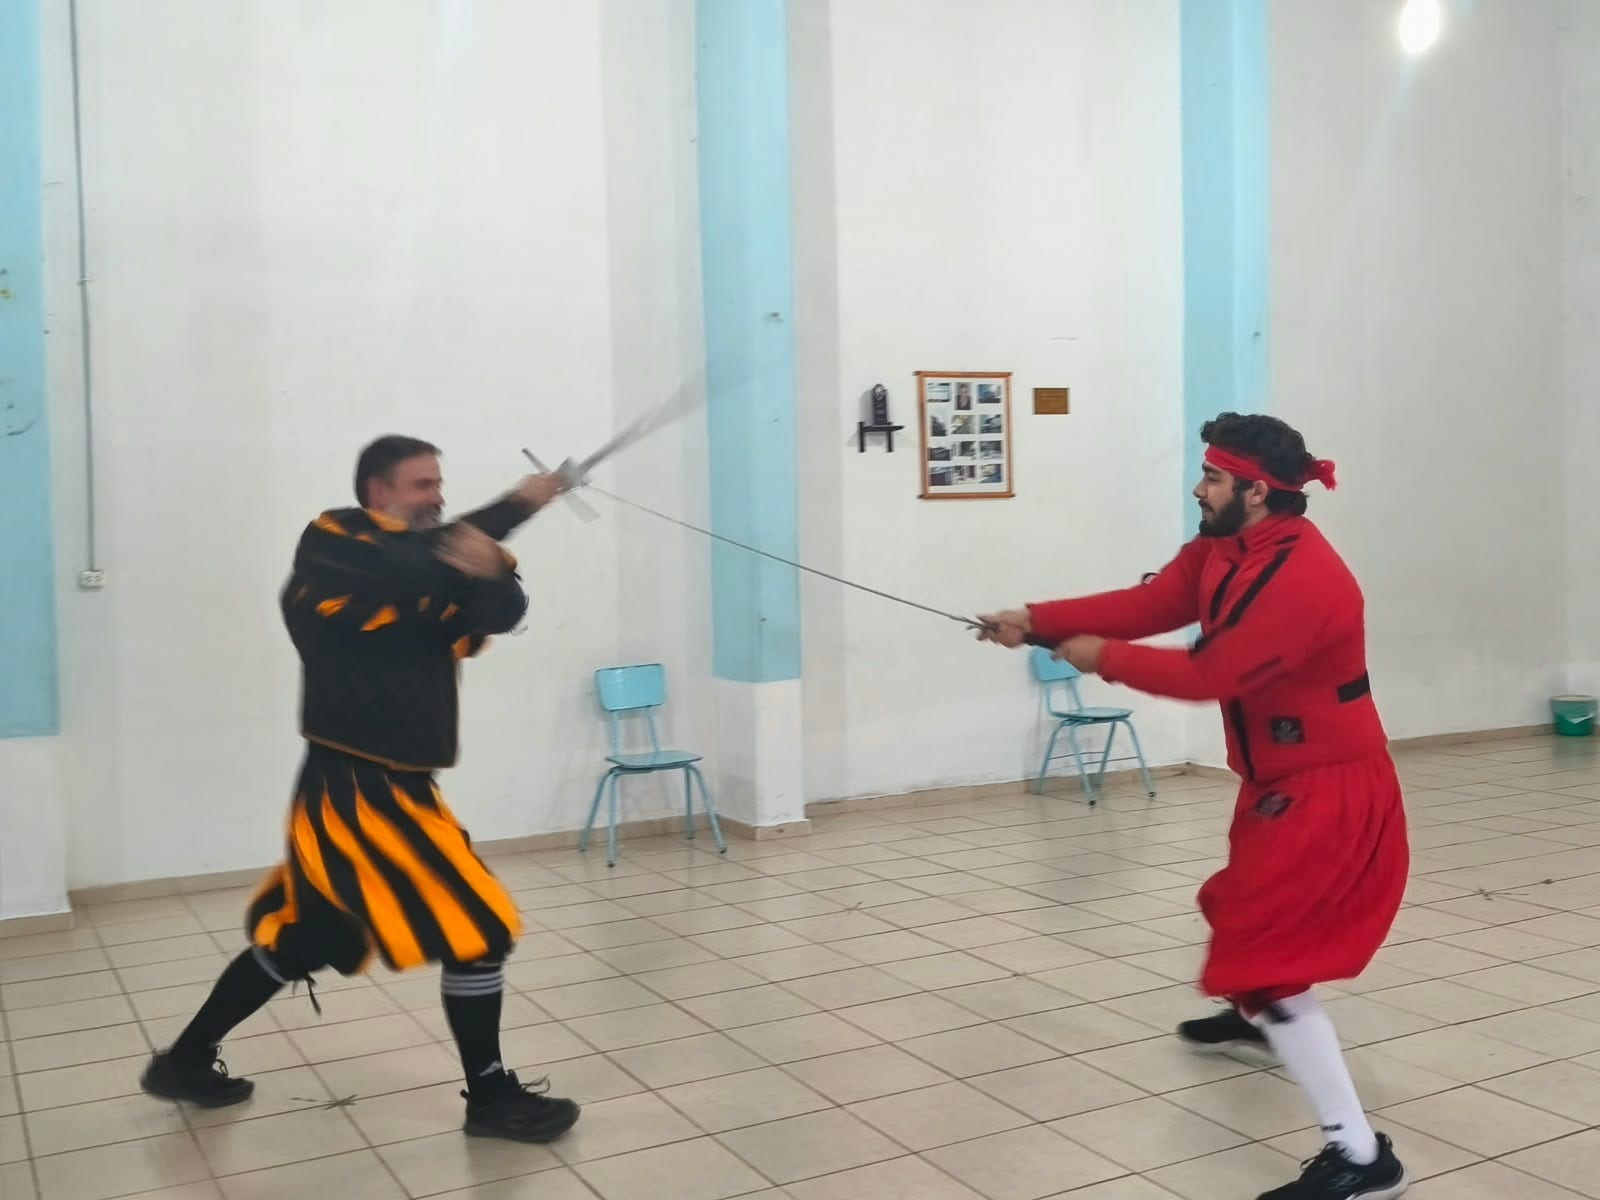
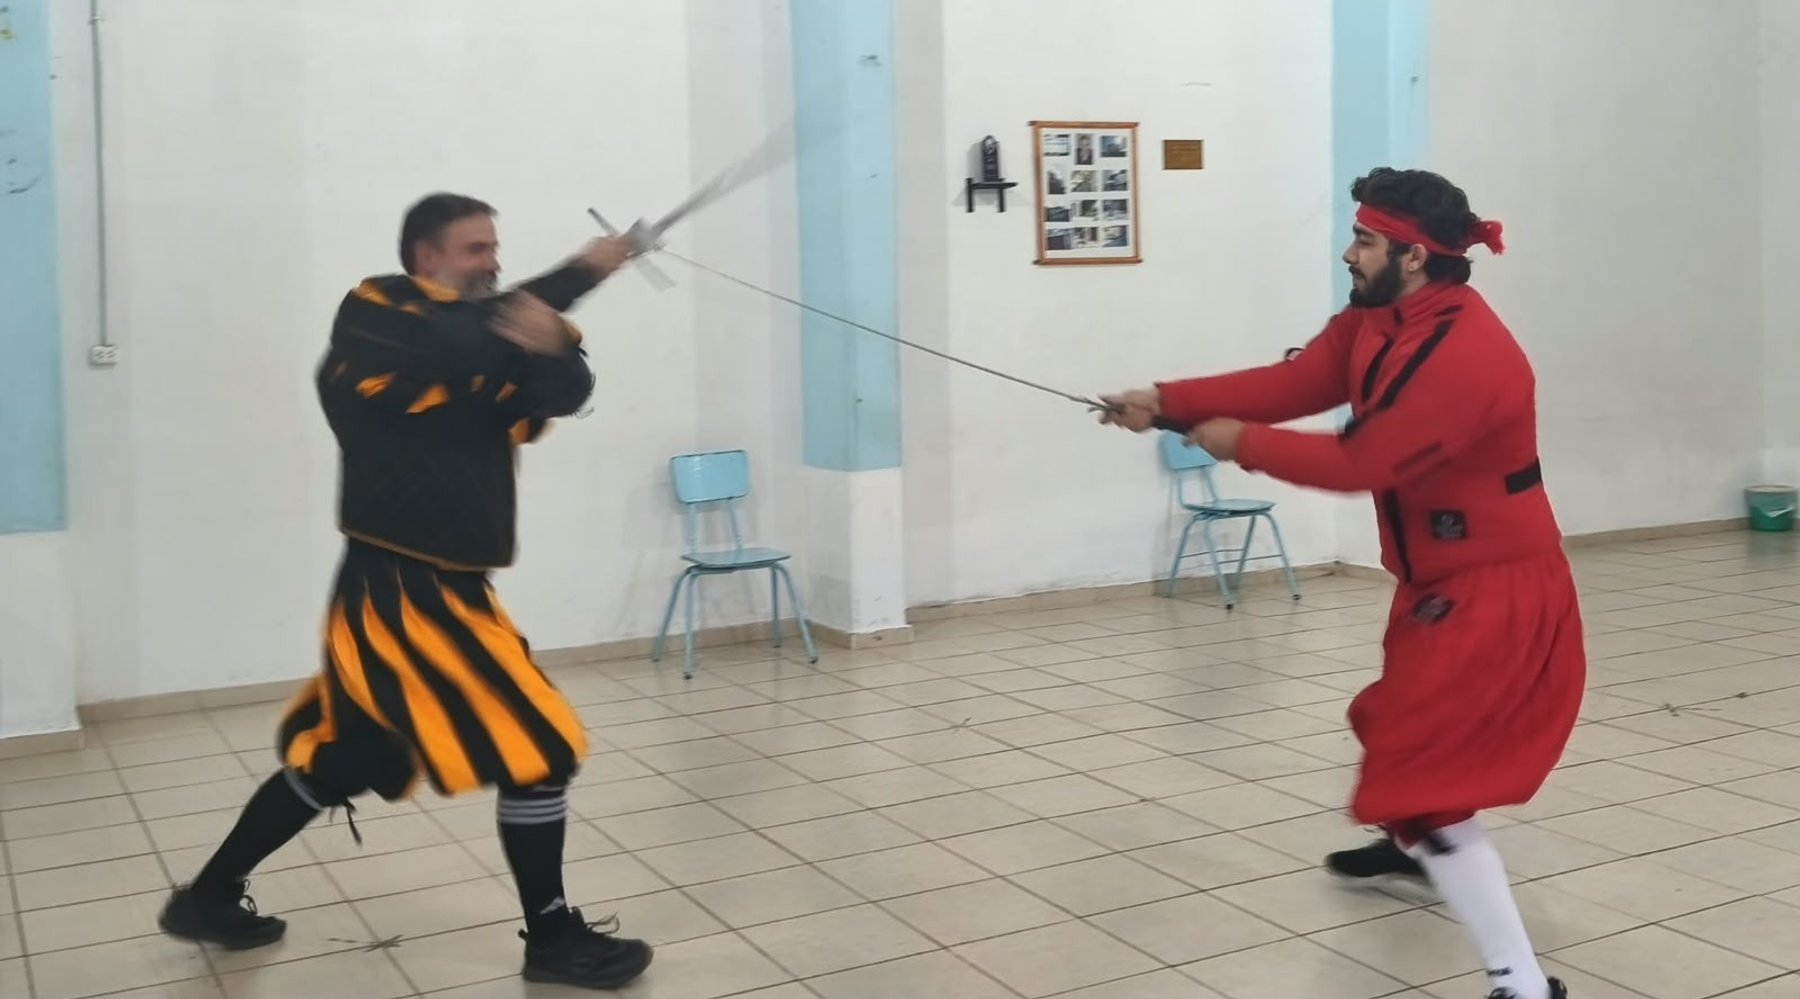
Add files via upload

diff --git a/site_v2/assets/js/main.js b/site_v2/assets/js/main.js
@@ -1,0 +1,29 @@
+document.addEventListener('DOMContentLoaded', () => {
+  const nav = document.querySelector('.nav');
+  const toggle = document.querySelector('.nav-toggle');
+  const links = document.querySelector('.nav-links');
+
+  const onScroll = () => {
+    if (window.scrollY > 40) nav.classList.add('solid');
+    else nav.classList.remove('solid');
+  };
+  onScroll();
+  window.addEventListener('scroll', onScroll, { passive: true });
+
+  if (toggle && links) {
+    toggle.addEventListener('click', () => links.classList.toggle('open'));
+    links.querySelectorAll('a').forEach(a => a.addEventListener('click', () => links.classList.remove('open')));
+  }
+
+  const revealEls = document.querySelectorAll('.reveal');
+  if ('IntersectionObserver' in window) {
+    const io = new IntersectionObserver((entries) => {
+      entries.forEach(e => {
+        if (e.isIntersecting) { e.target.classList.add('in'); io.unobserve(e.target); }
+      });
+    }, { threshold: 0.12 });
+    revealEls.forEach(el => io.observe(el));
+  } else {
+    revealEls.forEach(el => el.classList.add('in'));
+  }
+});

diff --git a/site_v2/index.html b/site_v2/index.html
@@ -236,6 +236,5 @@
 
 <script>document.getElementById('year').textContent = new Date().getFullYear();</script>
 <script src="assets/js/main.js"></script>
-<!-- Cloudflare Web Analytics --><script type='module' src='https://static.cloudflareinsights.com/beacon.min.js' data-cf-beacon='{"token": "ac425e54d13d4691a44238721280daa1"}'></script><!-- End Cloudflare Web Analytics -->
 </body>
 </html>

diff --git a/site_v2/assets/css/style.css b/site_v2/assets/css/style.css
@@ -112,7 +112,6 @@ p{ margin:0 0 1em; color:var(--gray); }
 @media (max-width:780px){
   .hero-content{ flex-direction:column-reverse; text-align:center; }
   .hero-actions{ justify-content:center; }
-  .hero-bg{ background-image:url('../img/hero-photo-mobile.jpg') !important; background-position:center 15%; }
 }
 @media (prefers-reduced-motion:reduce){ .hero-content{ animation:none; } }
 

diff --git a/site_v2/googlebe21cb2f083a8863.html b/site_v2/googlebe21cb2f083a8863.html
@@ -1,0 +1,1 @@
+google-site-verification: googlebe21cb2f083a8863.html
